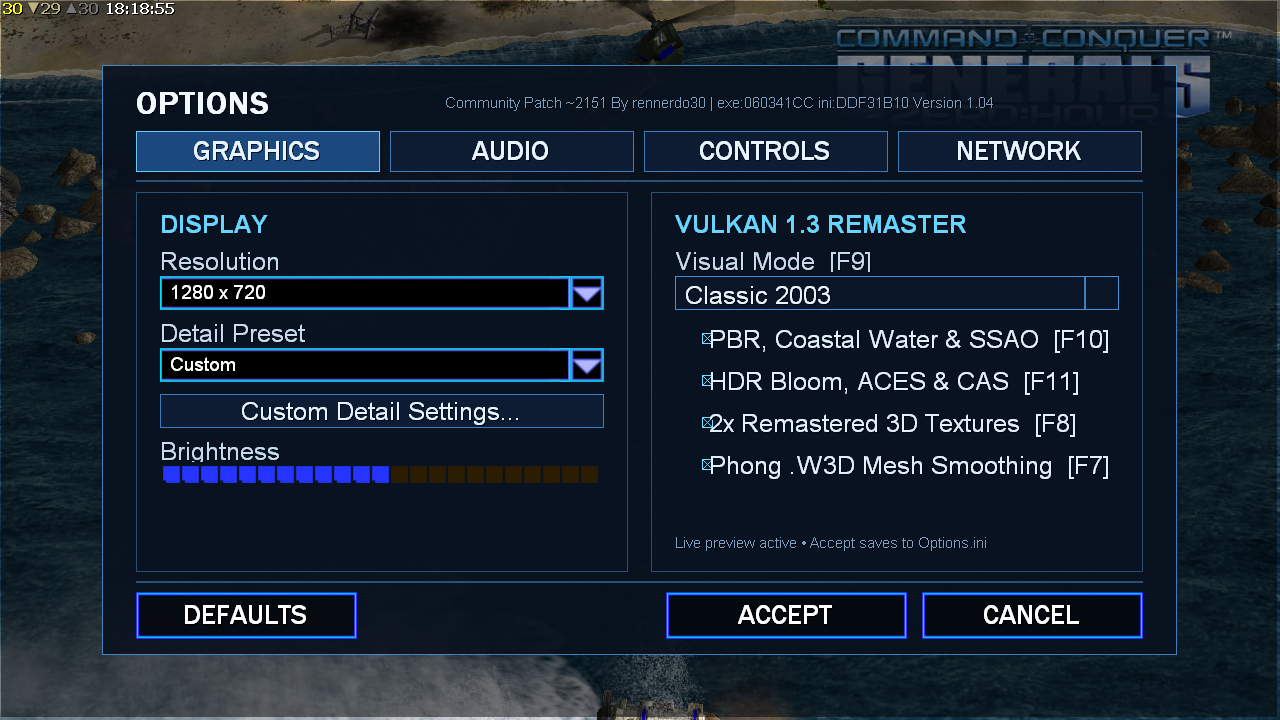
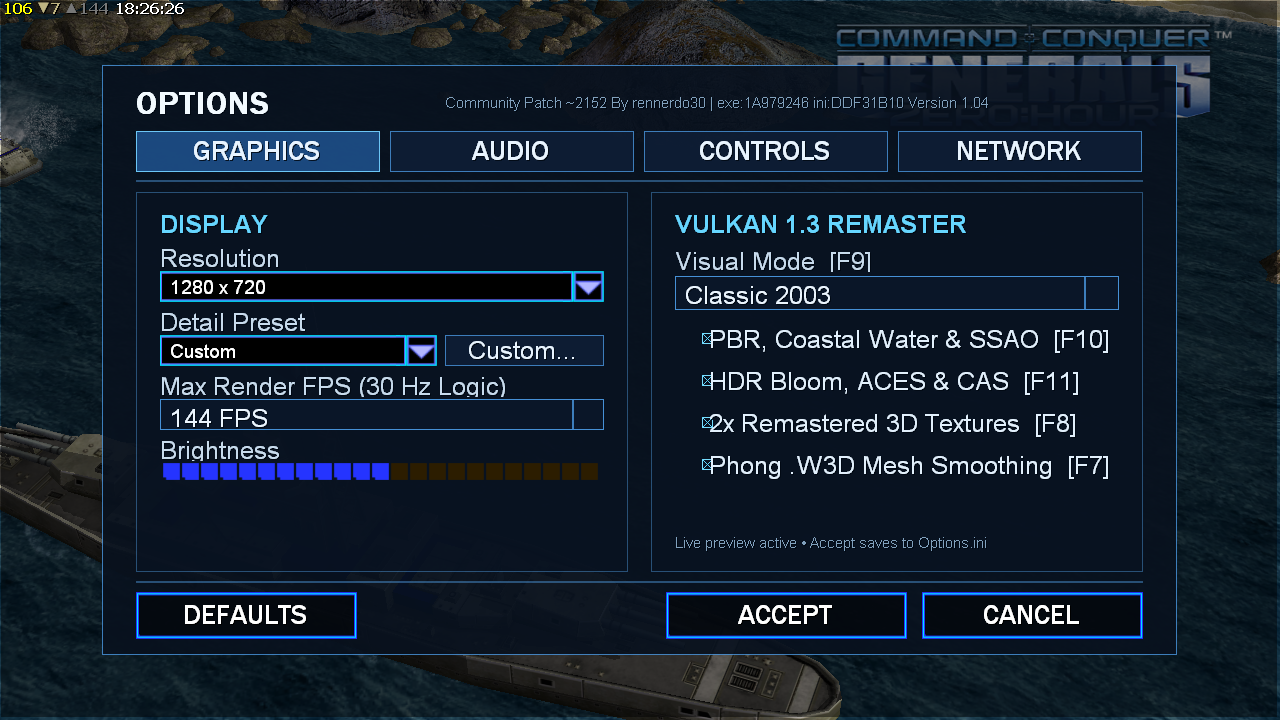
Unlock render FPS (144 FPS default, 30 Hz decoupled logic) + Options FPS selector

diff --git a/GeneralsMD/Code/GameEngine/Source/GameClient/GUI/GUICallbacks/Menus/OptionsMenu.cpp b/GeneralsMD/Code/GameEngine/Source/GameClient/GUI/GUICallbacks/Menus/OptionsMenu.cpp
@@ -34,6 +34,8 @@
 
 #include "Common/AudioAffect.h"
 #include "Common/AudioSettings.h"
+#include "Common/FramePacer.h"
+#include "Common/FrameRateLimit.h"
 #include "Common/GameAudio.h"
 #include "Common/GameEngine.h"
 #include "Common/OptionPreferences.h"
@@ -246,6 +248,9 @@ static Bool s_zhrCurPostFx = TRUE;
 static Bool s_zhrCurRemasterTex = TRUE;
 static Bool s_zhrCurMeshSmooth = TRUE;
 
+static UnsignedInt s_zhrSavedMaxFps = 144u;
+static UnsignedInt s_zhrCurMaxFps = 144u;
+
 // Dynamic ZHR controls (owned as children of OptionsMenuParent; destroyed with layout)
 static NameKeyType s_zhrTabIDs[ZHR_TAB_COUNT] = { NAMEKEY_INVALID, NAMEKEY_INVALID, NAMEKEY_INVALID, NAMEKEY_INVALID };
 static GameWindow *s_zhrTabButtons[ZHR_TAB_COUNT] = { nullptr, nullptr, nullptr, nullptr };
@@ -260,6 +265,9 @@ static GameWindow *s_zhrCardVulkan = nullptr;
 static GameWindow *s_zhrLblDisplayHdr = nullptr;
 static GameWindow *s_zhrLblResolution = nullptr;
 static GameWindow *s_zhrLblDetail = nullptr;
+static GameWindow *s_zhrLblMaxFps = nullptr;
+static NameKeyType s_zhrComboMaxFpsID = NAMEKEY_INVALID;
+static GameWindow *s_zhrComboMaxFps = nullptr;
 static GameWindow *s_zhrLblBrightness = nullptr;
 static NameKeyType s_zhrBtnCustomDetailID = NAMEKEY_INVALID;
 static GameWindow *s_zhrBtnCustomDetail = nullptr;
@@ -319,6 +327,8 @@ static void clearZhrOptionsWidgets()
 	s_zhrLblDisplayHdr = nullptr;
 	s_zhrLblResolution = nullptr;
 	s_zhrLblDetail = nullptr;
+	s_zhrLblMaxFps = nullptr;
+	s_zhrComboMaxFps = nullptr;
 	s_zhrLblBrightness = nullptr;
 	s_zhrBtnCustomDetail = nullptr;
 
@@ -399,6 +409,50 @@ static void applyLiveVulkanRemasterSettings()
 		s_zhrCurPostFx,
 		s_zhrCurRemasterTex,
 		s_zhrCurMeshSmooth);
+}
+
+static const UnsignedInt s_zhrFpsChoices[] = {
+	30u, 60u, 120u, 144u, 240u, RenderFpsPreset::UncappedFpsValue
+};
+
+static Int zhrFpsToComboIdx(UnsignedInt fps)
+{
+	if (fps >= RenderFpsPreset::UncappedFpsValue) return 5;
+	if (fps >= 200u) return 4;
+	if (fps >= 132u) return 3;
+	if (fps >= 90u) return 2;
+	if (fps >= 45u) return 1;
+	return 0;
+}
+
+static UnsignedInt zhrComboIdxToFps(Int idx)
+{
+	if (idx < 0 || idx >= 6) return 144u;
+	return s_zhrFpsChoices[idx];
+}
+
+static void applyLiveMaxRenderFps(UnsignedInt maxFps)
+{
+	if (!TheFramePacer || !TheWritableGlobalData)
+		return;
+	if (maxFps >= RenderFpsPreset::UncappedFpsValue)
+	{
+		TheWritableGlobalData->m_framesPerSecondLimit = RenderFpsPreset::UncappedFpsValue;
+		TheWritableGlobalData->m_useFpsLimit = FALSE;
+		TheFramePacer->setFramesPerSecondLimit(RenderFpsPreset::UncappedFpsValue);
+		TheFramePacer->setLogicTimeScaleFps(LOGICFRAMES_PER_SECOND);
+		TheFramePacer->enableLogicTimeScale(TRUE);
+	}
+	else
+	{
+		if (maxFps < LOGICFRAMES_PER_SECOND)
+			maxFps = LOGICFRAMES_PER_SECOND;
+		TheWritableGlobalData->m_framesPerSecondLimit = (Int)maxFps;
+		TheWritableGlobalData->m_useFpsLimit = TRUE;
+		TheFramePacer->setFramesPerSecondLimit((Int)maxFps);
+		TheFramePacer->setLogicTimeScaleFps(LOGICFRAMES_PER_SECOND);
+		TheFramePacer->enableLogicTimeScale(maxFps > LOGICFRAMES_PER_SECOND);
+	}
 }
 
 static void placeComboBox(GameWindow *combo, Int x, Int y, Int w, Int h)
@@ -703,6 +757,7 @@ static void selectZhrOptionsTab(Int tabIndex)
 	// Close any open dropdown list before switching tabs
 	if (comboBoxResolution) GadgetComboBoxHideList(comboBoxResolution);
 	if (comboBoxDetail) GadgetComboBoxHideList(comboBoxDetail);
+	if (s_zhrComboMaxFps) GadgetComboBoxHideList(s_zhrComboMaxFps);
 	if (s_zhrComboVisualMode) GadgetComboBoxHideList(s_zhrComboVisualMode);
 	if (comboBoxOnlineIP) GadgetComboBoxHideList(comboBoxOnlineIP);
 	if (comboBoxLANIP) GadgetComboBoxHideList(comboBoxLANIP);
@@ -737,6 +792,8 @@ static void selectZhrOptionsTab(Int tabIndex)
 	showZhrWidget(s_zhrLblDetail, isGfx);
 	showZhrWidget(comboBoxDetail, isGfx);
 	showZhrWidget(s_zhrBtnCustomDetail, isGfx);
+	showZhrWidget(s_zhrLblMaxFps, isGfx);
+	showZhrWidget(s_zhrComboMaxFps, isGfx);
 	showZhrWidget(s_zhrLblBrightness, isGfx);
 	showZhrWidget(sliderGamma, isGfx);
 
@@ -1023,40 +1080,64 @@ static void buildModernTabbedOptionsLayout(GameWindow *parent)
 	GameWindow *ctlParent = s_zhrControlsGroup ? s_zhrControlsGroup : host;
 	GameWindow *netParent = s_zhrNetworkGroup ? s_zhrNetworkGroup : host;
 
-	// Left card: DISPLAY
+	// Left card: DISPLAY (Resolution, Detail Preset + Custom button, Max Render FPS, Brightness)
+	const Int leftRowGap = static_cast<Int>(bodyH * 0.024f);
+	const Int leftComboH = static_cast<Int>(bodyH * 0.084f);
 	Int cy = bodyY + cPadY;
 	s_zhrLblDisplayHdr = createZhrLabel(
 		gfxParent, "OptionsMenu.wnd:ZhrLblDisplayHdr", UnicodeString(L"DISPLAY"),
 		leftCardX + cPadX, cy, ctrlW, secHdrH, sectionFont, colAccent);
-	cy += secHdrH + rowGap;
+	cy += secHdrH + leftRowGap;
 
 	s_zhrLblResolution = createZhrLabel(
 		gfxParent, "OptionsMenu.wnd:ZhrLblResolution", UnicodeString(L"Resolution"),
 		leftCardX + cPadX, cy, ctrlW, lblH, bodyFont, colLabel);
-	cy += lblH + 4;
-	placeComboBox(comboBoxResolution, leftCardX + cPadX, cy, ctrlW, comboH);
-	cy += comboH + rowGap;
+	cy += lblH + 2;
+	placeComboBox(comboBoxResolution, leftCardX + cPadX, cy, ctrlW, leftComboH);
+	cy += leftComboH + leftRowGap;
 
 	s_zhrLblDetail = createZhrLabel(
 		gfxParent, "OptionsMenu.wnd:ZhrLblDetail", UnicodeString(L"Detail Preset"),
 		leftCardX + cPadX, cy, ctrlW, lblH, bodyFont, colLabel);
-	cy += lblH + 4;
+	cy += lblH + 2;
 	if (comboBoxDetail)
 		GadgetComboBoxSetMaxDisplay(comboBoxDetail, 5);
-	placeComboBox(comboBoxDetail, leftCardX + cPadX, cy, ctrlW, comboH);
-	cy += comboH + rowGap;
-
+	const Int customBtnW = static_cast<Int>(ctrlW * 0.36f);
+	const Int detailComboW = ctrlW - customBtnW - 8;
+	placeComboBox(comboBoxDetail, leftCardX + cPadX, cy, detailComboW, leftComboH);
 	s_zhrBtnCustomDetail = createZhrButton(
-		gfxParent, "OptionsMenu.wnd:ZhrButtonCustomDetail", UnicodeString(L"Custom Detail Settings..."),
-		leftCardX + cPadX, cy, ctrlW, comboH, bodyFont, s_zhrBtnCustomDetailID);
+		gfxParent, "OptionsMenu.wnd:ZhrButtonCustomDetail", UnicodeString(L"Custom..."),
+		leftCardX + cPadX + ctrlW - customBtnW, cy, customBtnW, leftComboH, bodyFont, s_zhrBtnCustomDetailID);
 	if (s_zhrBtnCustomDetail && comboBoxDetail && !comboBoxDetail->winGetEnabled())
 		s_zhrBtnCustomDetail->winEnable(FALSE);
-	cy += comboH + rowGap;
+	cy += leftComboH + leftRowGap;
+
+	s_zhrLblMaxFps = createZhrLabel(
+		gfxParent, "OptionsMenu.wnd:ZhrLblMaxFps", UnicodeString(L"Max Render FPS (30 Hz Logic)"),
+		leftCardX + cPadX, cy, ctrlW, lblH, bodyFont, colLabel);
+	cy += lblH + 2;
+	s_zhrComboMaxFps = createZhrComboBox(
+		gfxParent, "OptionsMenu.wnd:ZhrComboMaxFps",
+		leftCardX + cPadX, cy, ctrlW, leftComboH, bodyFont, s_zhrComboMaxFpsID);
+	if (s_zhrComboMaxFps)
+	{
+		const Color entryCol = GameMakeColor(236, 246, 255, 255);
+		GadgetComboBoxReset(s_zhrComboMaxFps);
+		GadgetComboBoxSetMaxDisplay(s_zhrComboMaxFps, 6);
+		GadgetComboBoxAddEntry(s_zhrComboMaxFps, UnicodeString(L"30 FPS (Classic)"), entryCol);
+		GadgetComboBoxAddEntry(s_zhrComboMaxFps, UnicodeString(L"60 FPS"), entryCol);
+		GadgetComboBoxAddEntry(s_zhrComboMaxFps, UnicodeString(L"120 FPS"), entryCol);
+		GadgetComboBoxAddEntry(s_zhrComboMaxFps, UnicodeString(L"144 FPS"), entryCol);
+		GadgetComboBoxAddEntry(s_zhrComboMaxFps, UnicodeString(L"240 FPS"), entryCol);
+		GadgetComboBoxAddEntry(s_zhrComboMaxFps, UnicodeString(L"Uncapped"), entryCol);
+		GadgetComboBoxSetSelectedPos(s_zhrComboMaxFps, zhrFpsToComboIdx(s_zhrCurMaxFps));
+	}
+	cy += leftComboH + leftRowGap;
 
 	s_zhrLblBrightness = createZhrLabel(
 		gfxParent, "OptionsMenu.wnd:ZhrLblBrightness", UnicodeString(L"Brightness"),
 		leftCardX + cPadX, cy, ctrlW, lblH, bodyFont, colLabel);
-	cy += lblH + 4;
+	cy += lblH + 2;
 	placeSlider(sliderGamma, leftCardX + cPadX, cy, ctrlW, sliderH);
 
 	// Right card: VULKAN 1.3 REMASTER
@@ -1254,6 +1335,7 @@ static void buildModernTabbedOptionsLayout(GameWindow *parent)
 	bringTop(s_zhrNetworkGroup);
 
 	bringTop(sliderGamma);
+	bringTop(s_zhrComboMaxFps);
 	bringTop(s_zhrBtnCustomDetail);
 	bringTop(comboBoxDetail);
 	bringTop(comboBoxResolution);
@@ -1376,7 +1458,17 @@ static void setDefaults()
  	GadgetSliderSetPosition(sliderGamma, ((valMax - valMin) / 2 + valMin));
 
 	//-------------------------------------------------------------------------------------------------
-	// ZeroHourReloaded Vulkan 1.3 Remaster defaults (Remastered, all enhancements ON)
+	// ZeroHourReloaded Vulkan 1.3 Remaster & Frame Pacing defaults (Remastered all-ON, 144 FPS)
+	s_zhrCurMaxFps = 144u;
+	if (s_zhrComboMaxFps)
+	{
+		const Bool prevIgn = ignoreSelected;
+		ignoreSelected = TRUE;
+		GadgetComboBoxSetSelectedPos(s_zhrComboMaxFps, zhrFpsToComboIdx(s_zhrCurMaxFps));
+		ignoreSelected = prevIgn;
+	}
+	applyLiveMaxRenderFps(s_zhrCurMaxFps);
+
 	if (s_zhrHasVulkan)
 	{
 		s_zhrCurMode = 1u;
@@ -1931,7 +2023,22 @@ static void saveOptions()
 	}
 
 	//-------------------------------------------------------------------------------------------------
-	// ZeroHourReloaded Vulkan 1.3 Remaster settings
+	// ZeroHourReloaded Max Render FPS & Vulkan 1.3 Remaster settings
+	{
+		if (s_zhrCurMaxFps >= RenderFpsPreset::UncappedFpsValue)
+		{
+			(*pref)["ZhrMaxFps"] = "uncapped";
+		}
+		else
+		{
+			AsciiString fpsStr;
+			fpsStr.format("%u", s_zhrCurMaxFps);
+			(*pref)["ZhrMaxFps"] = fpsStr;
+		}
+		applyLiveMaxRenderFps(s_zhrCurMaxFps);
+		s_zhrSavedMaxFps = s_zhrCurMaxFps;
+	}
+
 	if (s_zhrHasVulkan && TheDisplay)
 	{
 		const char *modeStr =
@@ -2074,7 +2181,19 @@ void OptionsMenuInit( WindowLayout *layout, void *userData )
 		pref = NEW OptionPreferences;
 	}
 
-	// Snapshot live Vulkan 1.3 Remaster settings for instant preview + Cancel revert
+	// Snapshot live Max Render FPS + Vulkan 1.3 Remaster settings for instant preview + Cancel revert
+	if (TheFramePacer)
+	{
+		s_zhrSavedMaxFps = TheFramePacer->isActualFramesPerSecondLimitEnabled()
+			? static_cast<UnsignedInt>(TheFramePacer->getFramesPerSecondLimit())
+			: RenderFpsPreset::UncappedFpsValue;
+	}
+	else
+	{
+		s_zhrSavedMaxFps = pref->getZhrMaxRenderFps();
+	}
+	s_zhrCurMaxFps = s_zhrSavedMaxFps;
+
 	s_zhrHasVulkan = (TheDisplay && TheDisplay->hasVulkanRemasterBackend()) ? TRUE : FALSE;
 	if (s_zhrHasVulkan)
 	{
@@ -2733,6 +2852,13 @@ WindowMsgHandledType OptionsMenuSystem( GameWindow *window, UnsignedInt msg,
 
 					showAdvancedOptions();
 				}
+				else if (controlID == s_zhrComboMaxFpsID)
+				{
+					Int index = 3;
+					GadgetComboBoxGetSelectedPos(s_zhrComboMaxFps, &index);
+					s_zhrCurMaxFps = zhrComboIdxToFps(index);
+					applyLiveMaxRenderFps(s_zhrCurMaxFps);
+				}
 				else if (controlID == s_zhrComboVisualModeID && s_zhrHasVulkan)
 				{
 					Int index = 0;
@@ -2753,7 +2879,8 @@ WindowMsgHandledType OptionsMenuSystem( GameWindow *window, UnsignedInt msg,
 
 			if( controlID == buttonBack )
 			{
-				// Revert live Vulkan 1.3 Remaster preview back to the snapshot taken on open
+				// Revert live Max Render FPS & Vulkan 1.3 Remaster preview back to the snapshot taken on open
+				applyLiveMaxRenderFps(s_zhrSavedMaxFps);
 				if (s_zhrHasVulkan && TheDisplay)
 				{
 					TheDisplay->setVulkanRemasterSettings(

diff --git a/GeneralsMD/Code/GameEngine/Source/Common/GameEngine.cpp b/GeneralsMD/Code/GameEngine/Source/Common/GameEngine.cpp
@@ -33,6 +33,8 @@
 #include "Common/BuildAssistant.h"
 #include "Common/CRCDebug.h"
 #include "Common/FramePacer.h"
+#include "Common/FrameRateLimit.h"
+#include "Common/OptionPreferences.h"
 #include "Common/Radar.h"
 #include "Common/PlayerTemplate.h"
 #include "Common/Team.h"
@@ -639,7 +641,30 @@ void GameEngine::init()
 
 		TheSubsystemList->postProcessLoadAll();
 
-		TheFramePacer->setFramesPerSecondLimit(TheGlobalData->m_framesPerSecondLimit);
+		// ZeroHourReloaded: decouple high-FPS rendering (default 144 FPS, configurable in Options -> Graphics)
+		// from authentic 30 Hz RTS logic simulation so menus, camera, water, and gameplay run silky-smooth.
+		{
+			OptionPreferences zhrFpsPrefs;
+			UnsignedInt maxRenderFps = TheGlobalData->m_useFpsLimit
+				? zhrFpsPrefs.getZhrMaxRenderFps()
+				: RenderFpsPreset::UncappedFpsValue;
+			if (maxRenderFps >= RenderFpsPreset::UncappedFpsValue)
+			{
+				TheWritableGlobalData->m_framesPerSecondLimit = RenderFpsPreset::UncappedFpsValue;
+				TheWritableGlobalData->m_useFpsLimit = FALSE;
+				TheFramePacer->setFramesPerSecondLimit(RenderFpsPreset::UncappedFpsValue);
+				TheFramePacer->setLogicTimeScaleFps(LOGICFRAMES_PER_SECOND);
+				TheFramePacer->enableLogicTimeScale(TRUE);
+			}
+			else
+			{
+				TheWritableGlobalData->m_framesPerSecondLimit = (Int)maxRenderFps;
+				TheWritableGlobalData->m_useFpsLimit = TRUE;
+				TheFramePacer->setFramesPerSecondLimit((Int)maxRenderFps);
+				TheFramePacer->setLogicTimeScaleFps(LOGICFRAMES_PER_SECOND);
+				TheFramePacer->enableLogicTimeScale(maxRenderFps > LOGICFRAMES_PER_SECOND);
+			}
+		}
 
 		TheAudio->setOn(TheGlobalData->m_audioOn && TheGlobalData->m_musicOn, AudioAffect_Music);
 		TheAudio->setOn(TheGlobalData->m_audioOn && TheGlobalData->m_soundsOn, AudioAffect_Sound);

diff --git a/Core/GameEngine/Source/Common/OptionPreferences.cpp b/Core/GameEngine/Source/Common/OptionPreferences.cpp
@@ -32,6 +32,7 @@
 #include "PreRTS.h"	// This must go first in EVERY cpp file in the GameEngine
 
 #include "Common/AudioSettings.h"
+#include "Common/FrameRateLimit.h"
 #include "Common/GameAudio.h"
 #include "Common/GameLOD.h"
 #include "Common/GlobalData.h"
@@ -949,4 +950,21 @@ Bool OptionPreferences::getZhrMeshSmoothingEnabled() const
 		return TRUE;
 
 	return (stricmp(it->second.str(), "yes") == 0 || stricmp(it->second.str(), "true") == 0 || strcmp(it->second.str(), "1") == 0) ? TRUE : FALSE;
+}
+
+UnsignedInt OptionPreferences::getZhrMaxRenderFps() const
+{
+	OptionPreferences::const_iterator it = find("ZhrMaxFps");
+	if (it == end())
+		return 144u; // Default: smooth 144 FPS rendering with 30 Hz decoupled game logic
+
+	if (stricmp(it->second.str(), "uncapped") == 0)
+		return RenderFpsPreset::UncappedFpsValue;
+
+	const Int val = atoi(it->second.str());
+	if (val <= 0 || val >= (Int)RenderFpsPreset::UncappedFpsValue)
+		return RenderFpsPreset::UncappedFpsValue;
+	if (val < LOGICFRAMES_PER_SECOND)
+		return LOGICFRAMES_PER_SECOND;
+	return (UnsignedInt)val;
 }

diff --git a/Core/GameEngine/Include/Common/OptionPreferences.h b/Core/GameEngine/Include/Common/OptionPreferences.h
@@ -132,10 +132,11 @@ public:
 
 	Real getGameWindowTransitionSpeedMultiplier() const;
 
-	// ZeroHourReloaded Vulkan 1.3 Remaster settings
+	// ZeroHourReloaded Vulkan 1.3 Remaster & Frame Pacing settings
 	UnsignedInt getZhrGraphicsMode() const;
 	Bool getZhrPbrWaterSsaoEnabled() const;
 	Bool getZhrHdrPostFxEnabled() const;
 	Bool getZhrRemasterTexturesEnabled() const;
 	Bool getZhrMeshSmoothingEnabled() const;
+	UnsignedInt getZhrMaxRenderFps() const;
 };

diff --git a/Core/Libraries/Source/WWVegas/WW3D2/Backend/VulkanDX8Bridge.cpp b/Core/Libraries/Source/WWVegas/WW3D2/Backend/VulkanDX8Bridge.cpp
@@ -2912,7 +2912,8 @@ public:
         int32_t ok = 0;
         if (hwnd != nullptr)
         {
-            ok = zhr_vk_init_win32(hwnd, GetModuleHandle(nullptr), w, h, true, validation);
+            // Prefer tear-free MAILBOX / IMMEDIATE so FramePacer controls render FPS (60/120/144/240/Uncapped) cleanly.
+            ok = zhr_vk_init_win32(hwnd, GetModuleHandle(nullptr), w, h, false, validation);
         }
         else
         {

diff --git a/README.md b/README.md
@@ -69,7 +69,7 @@ Legacy 32-bit `binkw32.dll` and `mss32.dll` cannot load in a 64-bit process. Zer
 ### 5. Modern Frosted-Glass Main Menu, Tabbed Options Menu & 8-Bit HD Typography (`F9`)
 Replaces the stretched 2003 full-screen blue grid border, blurry bitmap button frames, cramped single-page Options dialog, and 4-bit quantized (`A4R4G4B4`) fonts with a crisp, resolution-independent tactical UI — **live-toggleable via `F9`** and scaling cleanly from `1280×720` to `3840×2160` (4K):
 - **Real-Time Vulkan 1.3 Frosted Glass:** Quarter-resolution separable Gaussian blur of the live 3D shell battle (or 2D `-quickstart` backdrop) sampled directly behind menu panels (`PostProcessPipeline::capture_ui_backdrop` + `WW3D2_UBER_WGSL`).
-- **Reworked 4-Tabbed Settings Menu (`GRAPHICS`, `AUDIO`, `CONTROLS`, `NETWORK`):** Exposes all ZeroHourReloaded Vulkan 1.3 Remaster settings (**Visual Mode**, **PBR/Coastal Water/SSAO**, **HDR Bloom/ACES/CAS**, **2× Remastered 3D Textures**, **Phong `.W3D` Mesh Smoothing**) directly inside the `GRAPHICS` tab with live immediate preview, `Cancel` revert, `Defaults` restore, and automatic `Options.ini` persistence, alongside modern vector checkboxes, cyan gradient sliders, sleek dropdown chevrons, and crisp header version badges.
+- **Reworked 4-Tabbed Settings Menu (`GRAPHICS`, `AUDIO`, `CONTROLS`, `NETWORK`) & Unlocked High-FPS Rendering:** Unlocks render framerate from the 2003 30 FPS cap (defaulting to **144 FPS** over tear-free Vulkan `MAILBOX` presentation while preserving authentic **30 Hz** decoupled simulation logic for replay & multiplayer compatibility), and exposes **Max Render FPS (`30 / 60 / 120 / 144 / 240 / Uncapped`)** plus all ZeroHourReloaded Vulkan 1.3 Remaster settings (**Visual Mode**, **PBR/Coastal Water/SSAO**, **HDR Bloom/ACES/CAS**, **2× Remastered 3D Textures**, **Phong `.W3D` Mesh Smoothing**) directly inside the `GRAPHICS` tab with live immediate preview, `Cancel` revert, `Defaults` restore, and automatic `Options.ini` persistence, alongside modern vector checkboxes, cyan gradient sliders, sleek dropdown chevrons, and crisp header version badges.
 - **Full 8-Bit Antialiased HD Fonts (`render2dsentence.cpp`, `render2d.cpp`):** Upgraded glyph atlases from 4-bit `A4R4G4B4` (16 alpha levels) to full 8-bit `A8R8G8B8` (256 alpha levels) using crisp military `Franklin Gothic Medium` typography, disabled the legacy D3D8 `-0.5` pixel UV bias on Vulkan so point-sampled glyphs land dead-center on texels with zero jagged distortion, and excluded 2D UI/font atlases from 2× texture upscaling — preserving 100% of original hitboxes, transitions, sub-menus, and in-game HUD cameos.
 
 ![Live 50/50 Split-Screen Main Menu — Classic 2003 (Left) vs. Modern Frosted-Glass UI (Right)](docs/screenshots/ab_menu_split.png)
